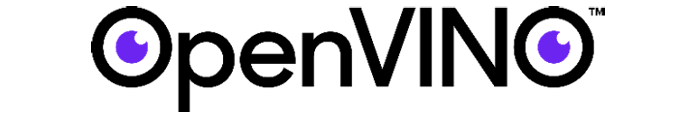
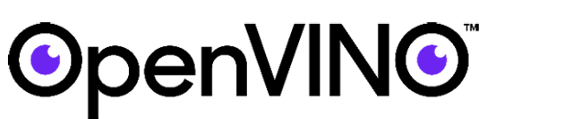
UI enhancement #870

diff --git a/examples/static/js/ui.common.js b/examples/static/js/ui.common.js
@@ -104,6 +104,23 @@ const formatToLogo = {
   'openvino': '../static/img/l-openvino.png',
 };
 
+const trademarks = (allFormats) => {
+  let trademarknote;
+  for (const format of allFormats) {
+    console.log(format)
+    if (format.toLowerCase() === 'tflite') {
+      trademarknote = 'TensorFlow, the TensorFlow logo and any related marks are trademarks of Google Inc.';
+    } else if (format.toLowerCase() === 'onnx') {
+      trademarknote += ' ONNX is a community project created by Facebook and Microsoft. ONNX is a trademark of Facebook, Inc.';
+    } else if (format.toLowerCase() === 'openvino') {
+      trademarknote += ' OpenVINO and the OpenVINO logo are trademarks of Intel Corporation or its subsidiaries in the U.S. and/or other countries.';
+    }
+  }
+  if(trademarknote) {
+    $('#trademark').html(trademarknote);
+  }
+}
+
 const constructModelTable = (modelList) => {
 
   const allFormats = new Set(modelList.map((m) => m.format));
@@ -130,6 +147,8 @@ const constructModelTable = (modelList) => {
                         <a href='../model.html' title='View model details'>Model</a>
                       </th>`));
   tbody.prepend(trows);
+
+  trademarks(allFormats);
 
   $('input:radio[name=m]').click(changeModel);
   checkedModelStyle();
@@ -651,9 +670,91 @@ if (skeletonDetectionPath <= -1) {
   });
 }
 
-const showProgress = async (text) => {
+const showProgress = async (pm, pb, pi, pii, pic) => {
+  let p = '';
+  let modelicon = ``;
+  if(pm === 'done') {
+    modelicon = `<svg class='step_list_icon' viewbox='0 0 24 24'>
+                  <path class='st0' d='M12 20c4.4 0 8-3.6 8-8s-3.6-8-8-8-8 3.6-8 8 3.6 8 8 8zm0 1.5c-5.2 0-9.5-4.3-9.5-9.5S6.8 2.5 12 2.5s9.5 4.3 9.5 9.5-4.3 9.5-9.5 9.5z'></path>
+                  <path class='st0' d='M11.1 12.9l-1.2-1.1c-.4-.3-.9-.3-1.3 0-.3.3-.4.8-.1 1.1l.1.1 1.8 1.6c.1.1.4.3.7.3.2 0 .5-.1.7-.3l3.6-4.1c.3-.3.4-.8.1-1.1l-.1-.1c-.4-.3-1-.3-1.3 0l-3 3.6z'></path>
+                </svg>`;
+  } else if (pm === 'current') {
+    modelicon = `<svg class='step_list_icon step_list_icon-${pb}' width='24' height='24' viewbox='0 0 24 24'>
+                <path d='M12.2 20a8 8 0 1 0 0-16 8 8 0 0 0 0 16zm0 1.377a9.377 9.377 0 1 1 0-18.754 9.377 9.377 0 0 1 0 18.754zm-4-8a1.377 1.377 0 1 1 0-2.754 1.377 1.377 0 0 1 0 2.754zm4 0a1.377 1.377 0 1 1 0-2.754 1.377 1.377 0 0 1 0 2.754zm4 0a1.377 1.377 0 1 1 0-2.754 1.377 1.377 0 0 1 0 2.754z' fill='#006DFF' fill-rule='evenodd'></path>
+              </svg>`;
+  } else {
+    modelicon = `<svg class='step_list_icon step_list_icon-${pi}' width='24' height='24' viewbox='0 0 24 24'>
+                <path d='M12 16.1c1.8 0 3.3-1.4 3.3-3.2 0-1.8-1.5-3.2-3.3-3.2s-3.3 1.4-3.3 3.2c0 1.7 1.5 3.2 3.3 3.2zm0 1.7c-2.8 0-5-2.2-5-4.9S9.2 8 12 8s5 2.2 5 4.9-2.2 4.9-5 4.9z'></path>
+              </svg>`;
+  }
+
+  let updateicon = ``;
+  if(pb === 'done') {
+    updateicon = `<svg class='step_list_icon' viewbox='0 0 24 24'>
+                  <path class='st0' d='M12 20c4.4 0 8-3.6 8-8s-3.6-8-8-8-8 3.6-8 8 3.6 8 8 8zm0 1.5c-5.2 0-9.5-4.3-9.5-9.5S6.8 2.5 12 2.5s9.5 4.3 9.5 9.5-4.3 9.5-9.5 9.5z'></path>
+                  <path class='st0' d='M11.1 12.9l-1.2-1.1c-.4-.3-.9-.3-1.3 0-.3.3-.4.8-.1 1.1l.1.1 1.8 1.6c.1.1.4.3.7.3.2 0 .5-.1.7-.3l3.6-4.1c.3-.3.4-.8.1-1.1l-.1-.1c-.4-.3-1-.3-1.3 0l-3 3.6z'></path>
+                </svg>`;
+  } else if (pb === 'current') {
+    updateicon = `<svg class='step_list_icon step_list_icon-${pb}' width='24' height='24' viewbox='0 0 24 24'>
+                <path d='M12.2 20a8 8 0 1 0 0-16 8 8 0 0 0 0 16zm0 1.377a9.377 9.377 0 1 1 0-18.754 9.377 9.377 0 0 1 0 18.754zm-4-8a1.377 1.377 0 1 1 0-2.754 1.377 1.377 0 0 1 0 2.754zm4 0a1.377 1.377 0 1 1 0-2.754 1.377 1.377 0 0 1 0 2.754zm4 0a1.377 1.377 0 1 1 0-2.754 1.377 1.377 0 0 1 0 2.754z' fill='#006DFF' fill-rule='evenodd'></path>
+              </svg>`;
+  } else {
+    updateicon = `<svg class='step_list_icon step_list_icon-${pi}' width='24' height='24' viewbox='0 0 24 24'>
+                <path d='M12 16.1c1.8 0 3.3-1.4 3.3-3.2 0-1.8-1.5-3.2-3.3-3.2s-3.3 1.4-3.3 3.2c0 1.7 1.5 3.2 3.3 3.2zm0 1.7c-2.8 0-5-2.2-5-4.9S9.2 8 12 8s5 2.2 5 4.9-2.2 4.9-5 4.9z'></path>
+              </svg>`;
+  }
+
+  let inferenceicon = ``;
+  if(pi === 'done') {
+    inferenceicon = `<svg class='step_list_icon' viewbox='0 0 24 24'>
+                  <path class='st0' d='M12 20c4.4 0 8-3.6 8-8s-3.6-8-8-8-8 3.6-8 8 3.6 8 8 8zm0 1.5c-5.2 0-9.5-4.3-9.5-9.5S6.8 2.5 12 2.5s9.5 4.3 9.5 9.5-4.3 9.5-9.5 9.5z'></path>
+                  <path class='st0' d='M11.1 12.9l-1.2-1.1c-.4-.3-.9-.3-1.3 0-.3.3-.4.8-.1 1.1l.1.1 1.8 1.6c.1.1.4.3.7.3.2 0 .5-.1.7-.3l3.6-4.1c.3-.3.4-.8.1-1.1l-.1-.1c-.4-.3-1-.3-1.3 0l-3 3.6z'></path>
+                </svg>`;
+  } else if (pi === 'current') {
+    inferenceicon = `<svg class='step_list_icon step_list_icon-${pb}' width='24' height='24' viewbox='0 0 24 24'>
+                <path d='M12.2 20a8 8 0 1 0 0-16 8 8 0 0 0 0 16zm0 1.377a9.377 9.377 0 1 1 0-18.754 9.377 9.377 0 0 1 0 18.754zm-4-8a1.377 1.377 0 1 1 0-2.754 1.377 1.377 0 0 1 0 2.754zm4 0a1.377 1.377 0 1 1 0-2.754 1.377 1.377 0 0 1 0 2.754zm4 0a1.377 1.377 0 1 1 0-2.754 1.377 1.377 0 0 1 0 2.754z' fill='#006DFF' fill-rule='evenodd'></path>
+              </svg>`;
+  } else {
+    inferenceicon = `<svg class='step_list_icon step_list_icon-${pi}' width='24' height='24' viewbox='0 0 24 24'>
+                <path d='M12 16.1c1.8 0 3.3-1.4 3.3-3.2 0-1.8-1.5-3.2-3.3-3.2s-3.3 1.4-3.3 3.2c0 1.7 1.5 3.2 3.3 3.2zm0 1.7c-2.8 0-5-2.2-5-4.9S9.2 8 12 8s5 2.2 5 4.9-2.2 4.9-5 4.9z'></path>
+              </svg>`;
+  }
+
+  if(pii) {
+    p = `
+      <nav class='step'>
+        <ul class='step_list'>
+          <li class='step step-${pm}'>
+            ${modelicon}<span class='step_list_title'>Loading model</span>
+          </li>
+          <li class='step step-${pb}'>
+            ${updateicon}<span class='step_list_title'>Updating backend (initialization, compilation, warmup)</span>
+          </li>
+          <li class='step step-${pi}'>
+            ${inferenceicon}<span class='step_list_title'>Inferencing image (input, compute)</span>
+          </li>
+        </ul>
+      </nav>
+  `;
+  } else if (pic) {
+    p = `
+      <nav class='step'>
+        <ul class='step_list'>
+          <li class='step step-${pm}'>
+            ${modelicon}<span class='step_list_title'>Loading model</span>
+          </li>
+          <li class='step step-${pb}'>
+            ${updateicon}<span class='step_list_title'>Updating backend</span>
+          </li>
+          <li class='step step-${pi}'>
+            ${inferenceicon}<span class='step_list_title'>Inferencing camera</span>
+          </li>
+        </ul>
+      </nav>
+    `;
+  }
   $('#progressmodel').show();
-  $('#progressstep').html(text);
+  $('#progressstep').html(p);
   $('.shoulddisplay').hide();
   $('.icdisplay').hide();
   $('#resulterror').hide();

diff --git a/examples/static/css/style.css b/examples/static/css/style.css
@@ -924,9 +924,9 @@ footer {
 }
 
 #filter img {
-  width: 116px;
+  width: 98px;
   height: 20px;
-  margin-right: 14px;
+  margin-right: 10px;
 }
 
 .modelcv tbody td.name {
@@ -2726,4 +2726,130 @@ button.xclose {
   background-color: rgba(255, 111, 97, 1.0);
 }
 
+#trademark {
+  font-size: 0.65rem;
+}
 
+@media (min-width: 48em) {
+  .step {
+    padding: 10px;
+    font-size: 13px;
+  }
+}
+
+.step_list {
+  width: 100%;
+  margin: 0;
+  padding: 0;
+  list-style-type: none;
+}
+
+@media (min-width: 48em) {
+  .step_list {
+    display: flex;
+    justify-content: space-between;
+  }
+}
+
+.step {
+  padding: 3px 5px;
+  text-align: center;
+  position: relative;
+  display: flex;
+  align-items: center;
+}
+
+@media (min-width: 48em) {
+  .step {
+    padding: 10px;
+    flex-direction: column;
+    flex: 1;
+  }
+}
+
+.step:after {
+  content: '';
+  display: block;
+  position: absolute;
+  z-index: 2;
+}
+
+@media (min-width: 48em) {
+  .step:after {
+    width: calc(100% - 100px);
+    top: 28%;
+    left: calc(50% + 50px);
+    border-top: 2px dotted #E2DFDA;
+  }
+}
+
+.step-done {
+  color: rgba(25, 190, 225, 1.0);
+}
+
+@media (min-width: 48em) {
+  .step-done:after {
+    border-top-style: solid;
+    border-top-width: 1px;
+  }
+}
+
+.step-current {
+  color: rgba(25, 190, 225, 1.0);
+}
+
+.step-current:last-of-type:after, .step-current:only-of-type:after {
+  height: 30%;
+}
+
+.step:last-of-type:after {
+  display: none;
+}
+
+.step-pending {
+  color: #333;
+}
+
+.step-pending:after {
+  height: 30%;
+}
+
+.step_list_title {
+  margin: 1px 0 0;
+}
+
+@media (min-width: 48em) {
+  .step_list_title {
+    margin: 0;
+  }
+}
+
+.step_list_icon {
+  margin: 0 10px 0 0;
+  height: 2em;
+  width: 2em;
+}
+
+@media (min-width: 48em) {
+  .step_list_icon {
+    margin: 0 0 15px;
+  }
+}
+
+.step_list_icon path {
+  fill: currentColor;
+}
+
+.step_list_icon ellipse,
+.step_list_icon circle {
+  stroke: currentColor;
+}
+
+@media (max-width: 768px) {
+  .step {
+    font-size: 13px;
+  }
+  .step_list_title {
+    text-align: left;
+  }
+}

diff --git a/examples/image_classification/main.js b/examples/image_classification/main.js
@@ -47,7 +47,7 @@ const utilsPredict = async (imageElement, backend, prefer) => {
   if (track) {
     track.stop();
   }
-  await showProgress('Image inferencing ...');
+  await showProgress('done', 'done', 'current', true, false);
   try {
     let ret = await utils.predict(imageElement);
     showResults();
@@ -60,7 +60,7 @@ const utilsPredict = async (imageElement, backend, prefer) => {
 
 const utilsPredictCamera = async (backend, prefer) => {
   streaming = true;
-  await showProgress('Camera inferencing ...');
+  await showProgress('done', 'done', 'current', false, true);
   try {
     let stream = await navigator.mediaDevices.getUserMedia({ audio: false, video: { facingMode: (front ? 'user' : 'environment') } });
     video.srcObject = stream;
@@ -98,7 +98,7 @@ const updateBackend = async (camera = false, force = false) => {
   streaming = false;
   try { utils.deleteAll(); } catch (e) { }
   logConfig();
-  await showProgress('Updating backend ...');
+  await showProgress('done', 'current', 'pending', !camera, camera);
   try {
     getOffloadOps(currentBackend, currentPrefer);
     await utilsInit(currentBackend, currentPrefer);
@@ -114,7 +114,7 @@ const main = async (camera = false) => {
   streaming = false;
   try { utils.deleteAll(); } catch (e) { }
   logConfig();
-  await showProgress('Loading model ...');
+  await showProgress('current', 'pending', 'pending', !camera, camera);
   try {
     let model = getModelById(currentModel);
     await utils.loadModel(model);

diff --git a/examples/emotion_analysis/index.html b/examples/emotion_analysis/index.html
@@ -286,6 +286,7 @@
     <div class='container'>
       <div class='row'>
         <div class='col-lg-12 col-xs-12 text-lg-center text-center'>
+          <div id='trademark' class='mb-4'>TensorFlow, the TensorFlow logo and any related marks are trademarks of Google Inc.</div>
           <div class='webmlbadge mb-4'>
             <div class='webml-title'>WebNN API</div>
             <div id='webmlstatus'></div>

diff --git a/examples/facial_landmark_detection/index.html b/examples/facial_landmark_detection/index.html
@@ -286,6 +286,7 @@
     <div class='container'>
       <div class='row'>
         <div class='col-lg-12 col-xs-12 text-lg-center text-center'>
+          <div id='trademark' class='mb-4'>TensorFlow, the TensorFlow logo and any related marks are trademarks of Google Inc.</div>
           <div class='webmlbadge mb-4'>
             <div class='webml-title'>WebNN API</div>
             <div id='webmlstatus'></div>

diff --git a/examples/image_classification/index.html b/examples/image_classification/index.html
@@ -284,6 +284,7 @@
     <div class='container'>
       <div class='row'>
         <div class='col-lg-12 col-xs-12 text-lg-center text-center'>
+          <div id='trademark' class='mb-4'></div>
           <div class='webmlbadge mb-4'>
             <div class='webml-title'>WebNN API</div>
             <div id='webmlstatus'></div>

diff --git a/examples/object_detection/index.html b/examples/object_detection/index.html
@@ -259,6 +259,7 @@
     <div class='container'>
       <div class='row'>
         <div class='col-lg-12 col-xs-12 text-lg-center text-center'>
+          <div id='trademark' class='mb-4'></div>
           <div class='webmlbadge mb-4'>
             <div class='webml-title'>WebNN API</div>
             <div id='webmlstatus'></div>

diff --git a/examples/semantic_segmentation/index.html b/examples/semantic_segmentation/index.html
@@ -301,6 +301,7 @@
     <div class='container'>
       <div class='row'>
         <div class='col-lg-12 col-xs-12 text-lg-center text-center'>
+          <div id='trademark' class='mb-4'></div>
           <div class='webmlbadge mb-4'>
             <div class='webml-title'>WebNN API</div>
             <div id='webmlstatus'></div>

diff --git a/examples/super_resolution/index.html b/examples/super_resolution/index.html
@@ -258,6 +258,7 @@
     <div class='container'>
       <div class='row'>
         <div class='col-lg-12 col-xs-12 text-lg-center text-center'>
+          <div id='trademark' class='mb-4'></div>
           <div class='webmlbadge mb-4'>
             <div class='webml-title'>WebNN API</div>
             <div id='webmlstatus'></div>
